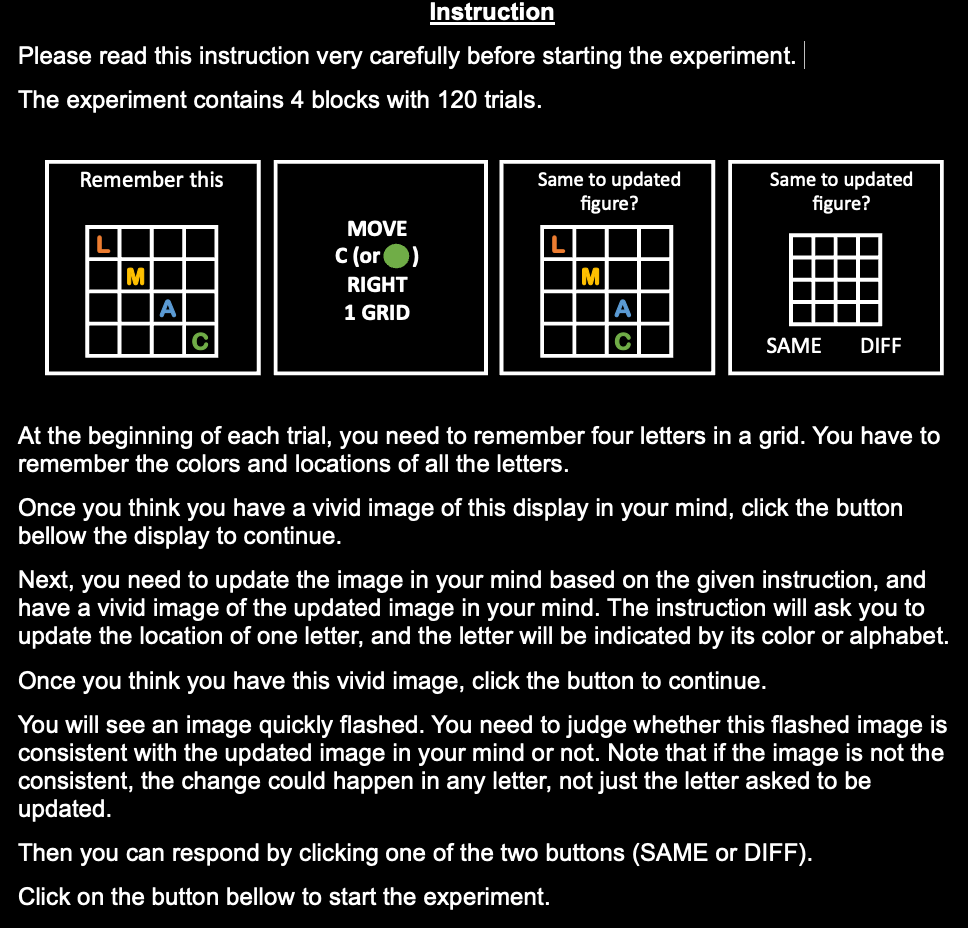
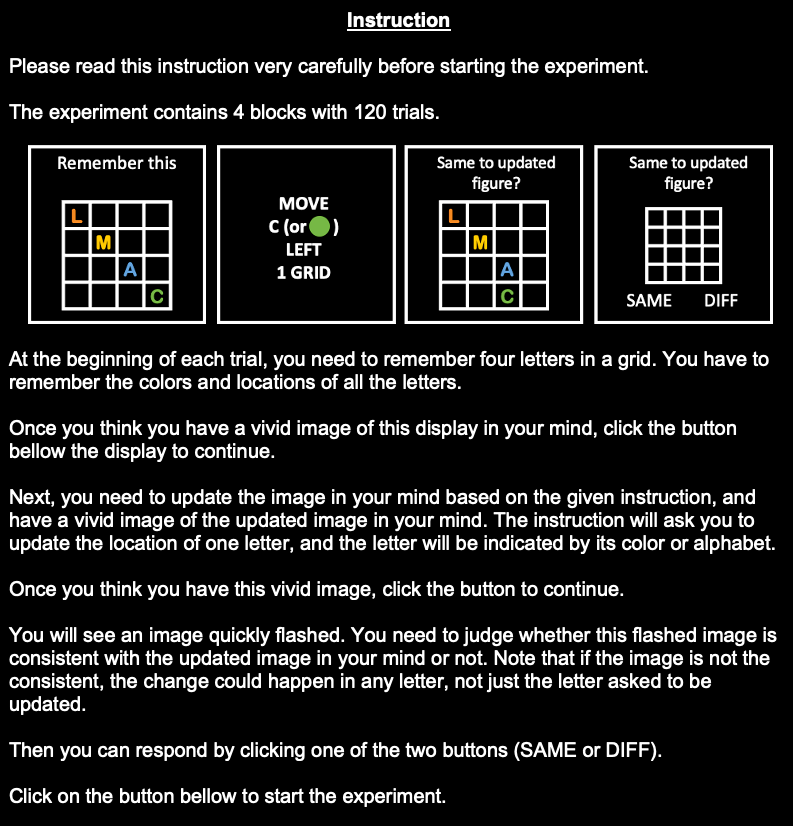
Add files via upload

Changed region(s): [[0.0, 0.0, 0.9987, 0.9988]]

diff --git a/aphanWM_v1.html b/aphanWM_v1.html
@@ -235,7 +235,7 @@ function runDemographics() {
 // show instruction
 function instruction() {
   reset();
-  ctx.drawImage(instructionImg,0,0,pageHeight*0.8*7.82/7.5,pageHeight*0.8);
+  ctx.drawImage(instructionImg,0,0,pageHeight*0.8*7.2/7.5,pageHeight*0.8);
   if ((mousePosX < 100+50) && (mousePosX > 100-50) && (mousePosY > pageHeight*0.84-30) && (mousePosY < pageHeight*0.84+30)){nextState = 1;} else {nextState = 0;}
   drawButton('Next',nextState,100,pageHeight*0.84,50,30,2,6);
   drawMouse();
